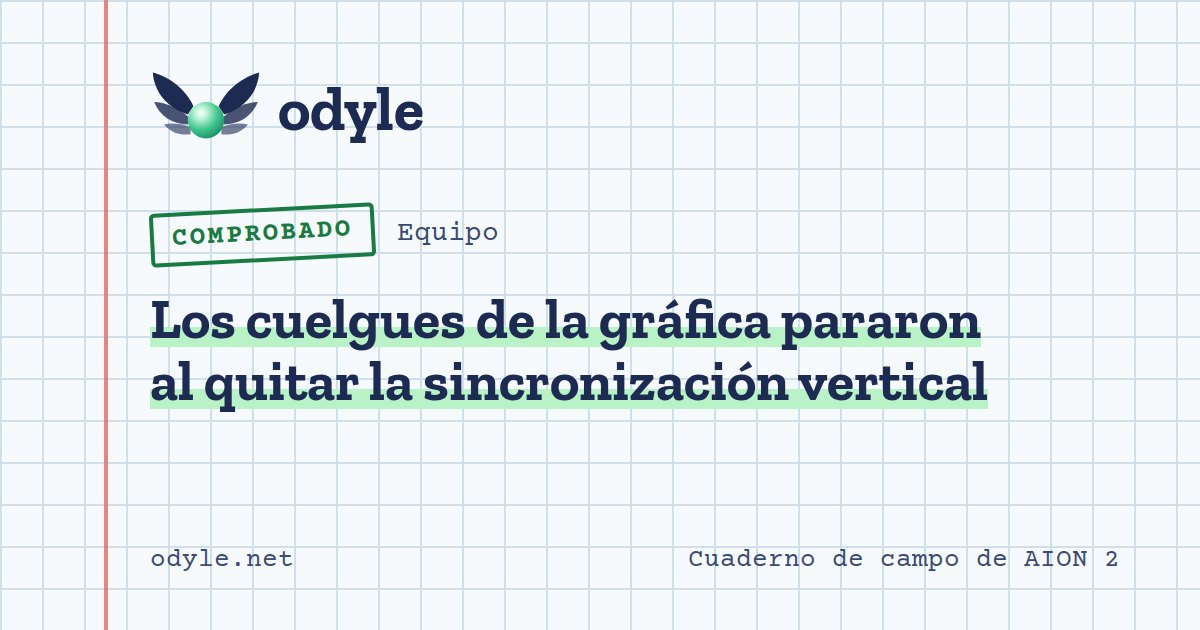
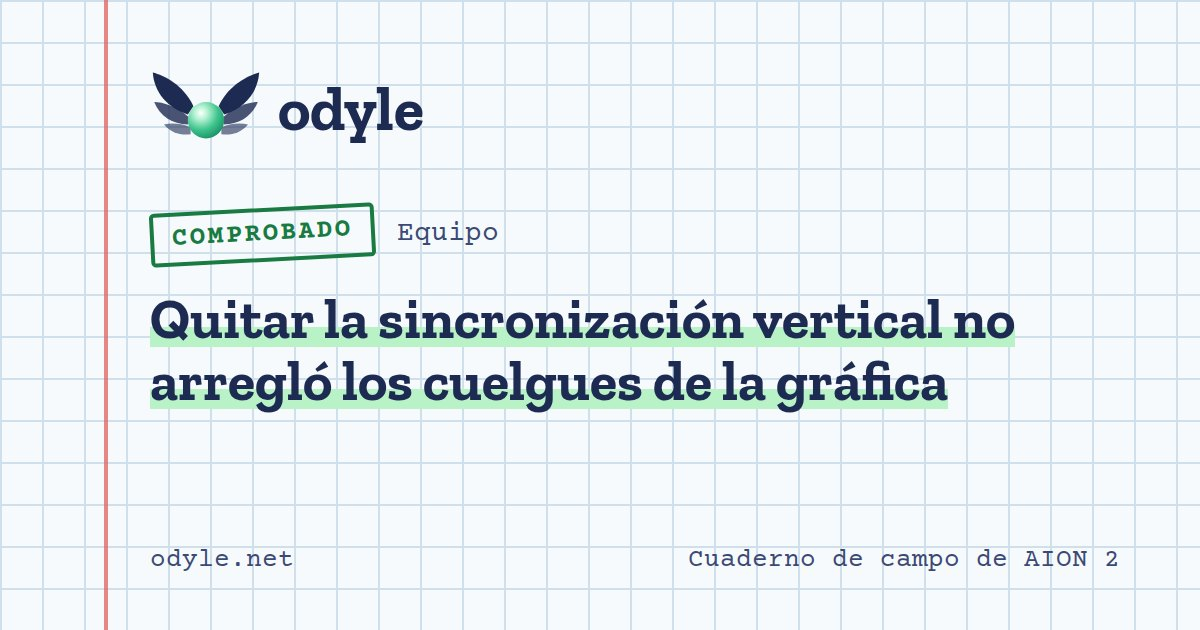
Corrección: la sincronización vertical no arregló los cuelgues

Changed region(s): [[0.1233, 0.4524, 0.8633, 0.6635]]

diff --git a/src/content/entries/es/cuelgues-sincronizacion-vertical.md b/src/content/entries/es/cuelgues-sincronizacion-vertical.md
@@ -1,6 +1,6 @@
 ---
-title: Los cuelgues de la gráfica pararon al quitar la sincronización vertical
-description: Una veintena de cierres en tres días en una Steam Machine. No era el controlador ni la memoria de la gráfica; pararon al apagar la sincronización vertical.
+title: Quitar la sincronización vertical no arregló los cuelgues de la gráfica
+description: Publiqué que apagarla los había parado, y no era verdad. Volvieron, y el propio juego guarda que el primer día ya estaba apagada. Lo probado y descartado.
 status: comprobado
 topic: equipo
 verifiedAt: 2026-10-07
@@ -10,34 +10,41 @@ firstHand: true
 sources:
   - { title: 'GPU Crash dump Triggered DXGI_ERROR — foro de AION 2 en Steam', url: 'https://steamcommunity.com/app/3393110/discussions/6/583936001036071306/', lang: en }
   - { title: 'Crashes all day — foro de AION 2 en Steam', url: 'https://steamcommunity.com/app/3393110/discussions/6/583935635494121453/', lang: en }
+history:
+  - { date: 2026-10-07, note: 'Publicada por la tarde diciendo que apagar la sincronización vertical había parado los cierres.' }
+  - { date: 2026-10-07, note: 'Corregida esa misma tarde: volvió a colgarse dos veces con ella apagada, y los informes del juego lo desmienten.' }
 updated: 2026-10-07
 translationKey: cuelgues-sincronizacion-vertical
 ---
 
 ## Lo que se dice
 
-El aviso es siempre el mismo, `GPU Crash dump Triggered DXGI_ERROR_DEVICE_REMOVED`, y en los foros se achaca a casi todo: controlador antiguo, temperatura, superposiciones, archivos dañados. En el foro de Steam hay quien lo evita cerrando los menús con Esc en lugar de con la X, y quien dice que se le fue al cambiar de escalador. No he encontrado a nadie que nombre la sincronización vertical.
+El aviso es siempre el mismo, `GPU Crash dump Triggered DXGI_ERROR_DEVICE_REMOVED`, y en los foros se achaca a casi todo: controlador antiguo, temperatura, superposiciones, archivos dañados. En el foro de Steam hay quien lo evita cerrando los menús con Esc en lugar de con la X, y quien dice que se le fue al cambiar de escalador.
 
 ## Lo que pasa
 
-Los cierres [del día del estreno](/es/cuaderno/cuelgues-grafica-steam-machine/) volvieron los dos días siguientes. En tres días fueron una veintena, casi siempre al salir de un menú, y el 7 de octubre llegaron a ser uno cada 2 a 12 minutos. Cada cierre coincide al segundo con un volcado de Windows que señala al controlador de AMD: la gráfica deja de responder y el juego la pierde.
+Esta entrada decía otra cosa hace unas horas: que los cierres habían parado al apagar la sincronización vertical. Aguantó casi dos horas y volvió a colgarse dos veces. Me precipité.
 
-Lo que fui cambiando ese día, por orden:
+Además había una forma de saberlo sin esperar. El juego guarda un informe de cada cierre, y en él apunta si la sincronización estaba puesta. De los 22 cierres en tres días, 10 fueron con ella apagada, incluidos los ocho [del día del estreno](/es/cuaderno/cuelgues-grafica-steam-machine/).
+
+Lo que he cambiado y no lo arregla:
 
 | Cambio | Qué pasó |
 |---|---|
-| Controlador de AMD, de Adrenalin 26.8.1 a 26.9.2 | Se colgó a los tres minutos de entrar |
-| Pantalla completa en lugar de sin bordes | Mejoró: un cierre en algo más de una hora |
-| Sincronización vertical apagada | Ninguno desde entonces, con el juego a 4K |
+| Límite de fotogramas | Los cierres volvieron al día siguiente |
+| Calidad gráfica, del mínimo a alta | Se cuelga con todas |
+| Controlador de AMD, de Adrenalin 26.8.1 a 26.9.2 | Se colgó a los tres minutos |
+| Ventana, sin bordes y pantalla completa, a 1080p y a 4K | Se cuelga en todos los modos |
+| Sincronización vertical | Se cuelga con ella y sin ella |
 
-Tampoco era que la gráfica se quedase sin memoria. Con la sincronización puesta se colgaba con entre 7,2 y 7,4 GB ocupados de los 8 que tiene la tarjeta. Con ella apagada llegó a 8,06 GB, llena del todo, y aguantó.
+Tampoco depende de lo llena que esté la memoria de la gráfica: se ha colgado con 7,0 GB ocupados de 8 y ha aguantado un buen rato con 8,06.
 
-Encaja con dos pistas que ya había. Pasaba al salir de los menús, que es cuando los fotogramas cambian de golpe. Y el primer día se calmó al limitar los fotogramas. Las dos cosas tienen que ver con cómo se presentan las imágenes en pantalla, no con cuánto trabaja la gráfica.
+Lo único que no cambia nunca es el momento: pasa al cerrar un menú de pantalla completa y volver al mundo. Habilidades, logros, ajustes, da igual cuál.
 
-Hasta dónde llega esto: es una tarde de juego, no una semana. El controlador nuevo, por sí solo, no bastó: con él y la sincronización puesta se colgó tres veces. Y es este equipo, con un monitor con FreeSync de 48 a 165 Hz y la opción de FreeSync en «AMD Optimized» en el programa de AMD. En otro puede no ser así.
+Lo que dice el volcado de Windows de cada cierre es poco, pero claro: la gráfica deja de avanzar con una orden de dibujo y Windows la reinicia. En el foro de Steam hay jugadores con gráficas de otra marca y el mismo aviso al cerrar menús. Por eso sospecho de algo que hace el juego al volver del menú más que de este equipo. No lo puedo demostrar.
 
 ## Qué hacer
 
-Si se te cierra con ese aviso al salir de los menús, apaga la sincronización vertical en los ajustes gráficos del juego antes de tocar nada más. Es un cambio de diez segundos y se deshace igual.
+No tengo arreglo. Lo que sí puedo decir es qué no merece la tarde: cambiar de controlador, bajar la calidad o tocar la sincronización vertical no sirvió aquí.
 
-Sin ella la imagen puede partirse en los movimientos rápidos; con un monitor de refresco variable no debería. Pon además un límite de fotogramas por debajo del refresco de tu monitor, para que la gráfica no trabaje al máximo dentro de los menús.
+Si te pasa lo mismo, evita abrir menús de pantalla completa cuando un cierre te haría perder algo, como en mitad de una mazmorra. Y si quieres comprobar algo antes de darlo por bueno, mira el informe que el juego deja de cada cierre en lugar de fiarte de un rato sin fallos, que es justo el error que cometí yo.

diff --git a/src/content/entries/es/cuelgues-grafica-steam-machine.md b/src/content/entries/es/cuelgues-grafica-steam-machine.md
@@ -10,7 +10,7 @@ firstHand: true
 sources:
   - { title: 'Crashes all day — foro de AION 2 en Steam', url: 'https://steamcommunity.com/app/3393110/discussions/6/583935635494121453/', lang: en }
 history:
-  - { date: 2026-10-07, note: 'Los cierres volvieron el 6 y el 7 de octubre. Enlazada la entrada que cuenta lo que los paró.' }
+  - { date: 2026-10-07, note: 'Los cierres volvieron el 6 y el 7 de octubre. Enlazada la entrada que cuenta lo que se probó y no los arregló.' }
 updated: 2026-10-07
 translationKey: cuelgues-grafica-steam-machine
 ---
@@ -29,8 +29,8 @@ Lo único que cambié antes de que parase fue limitar a 45 fotogramas. La causa 
 
 Un efecto aparte: con las texturas en media, las del personaje se quedaban borrosas al bajar de la montura o al tabular. En alta no pasa.
 
-**Añadido el 7 de octubre:** el límite de fotogramas no fue suficiente. Los cierres volvieron los dos días siguientes y lo que los paró fue apagar la sincronización vertical. Está contado en [la entrada del 7 de octubre](/es/cuaderno/cuelgues-sincronizacion-vertical/).
+**Añadido el 7 de octubre:** el límite de fotogramas no fue suficiente. Los cierres volvieron los dos días siguientes, y tampoco los paró cambiar de controlador ni apagar la sincronización vertical. Está contado en [la entrada del 7 de octubre](/es/cuaderno/cuelgues-sincronizacion-vertical/).
 
 ## Qué hacer
 
-Si se te cierra al abrir menús, apaga primero la sincronización vertical y pon después un límite de fotogramas. Deja las texturas en alta si tu gráfica lo aguanta, y baja el FSR en lugar de la calidad.
+No tengo arreglo todavía. Un límite de fotogramas no hace daño, pero aquí no bastó. Deja las texturas en alta si tu gráfica lo aguanta, y baja el FSR en lugar de la calidad.
